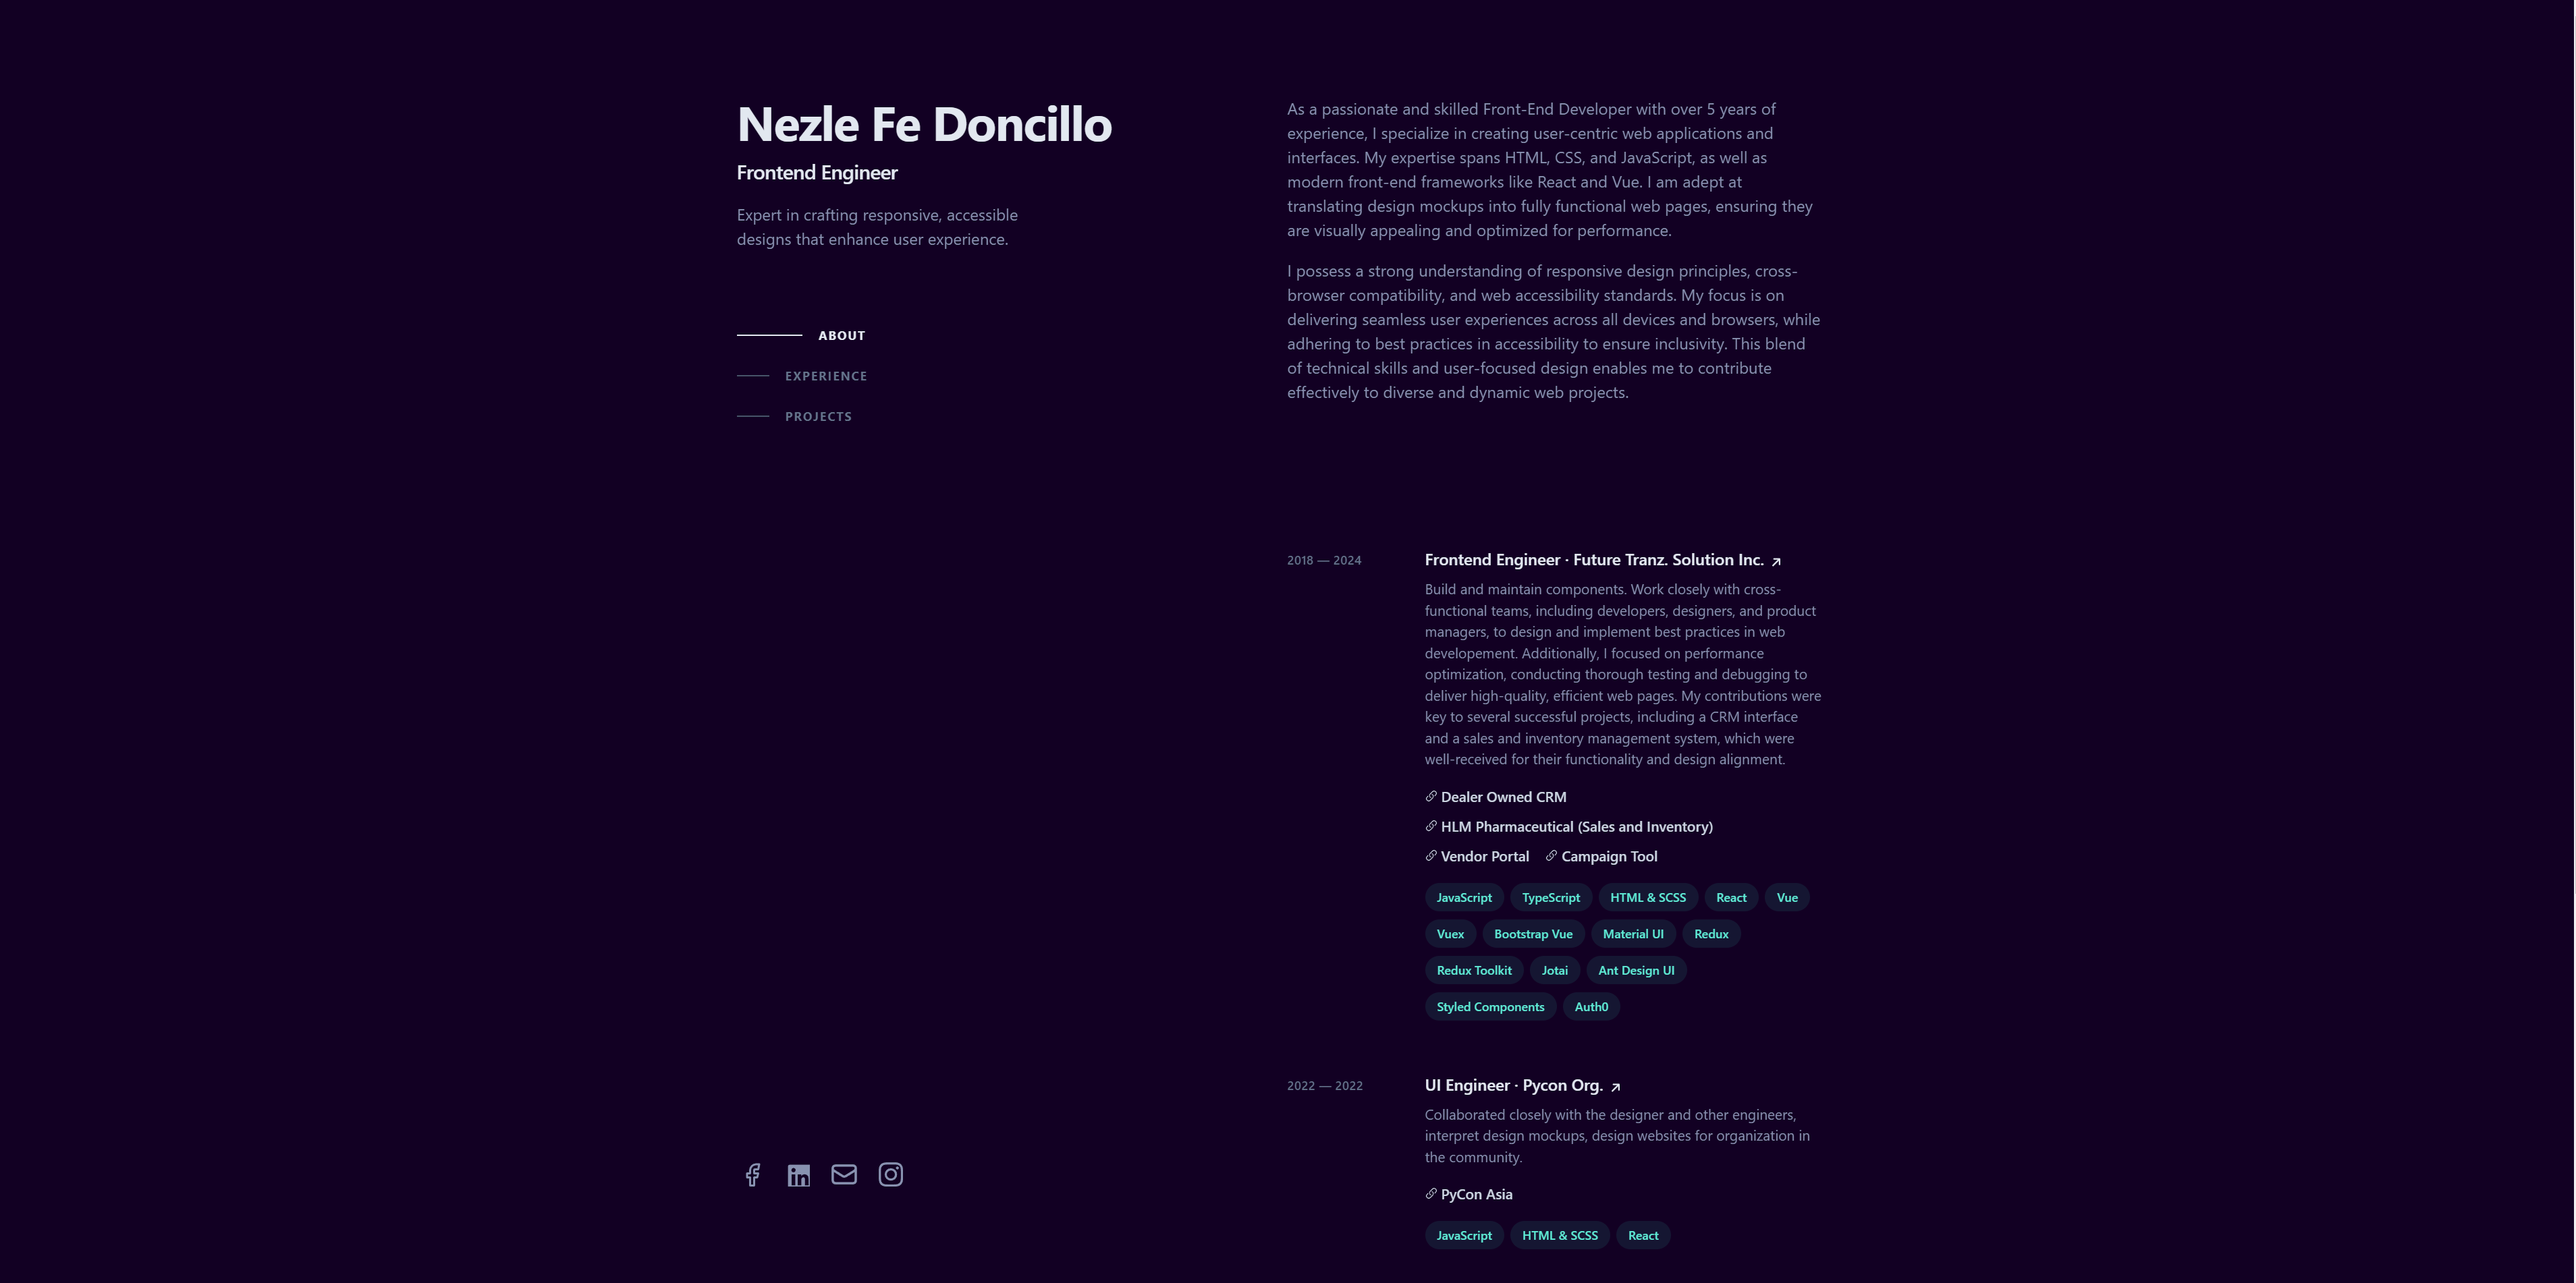
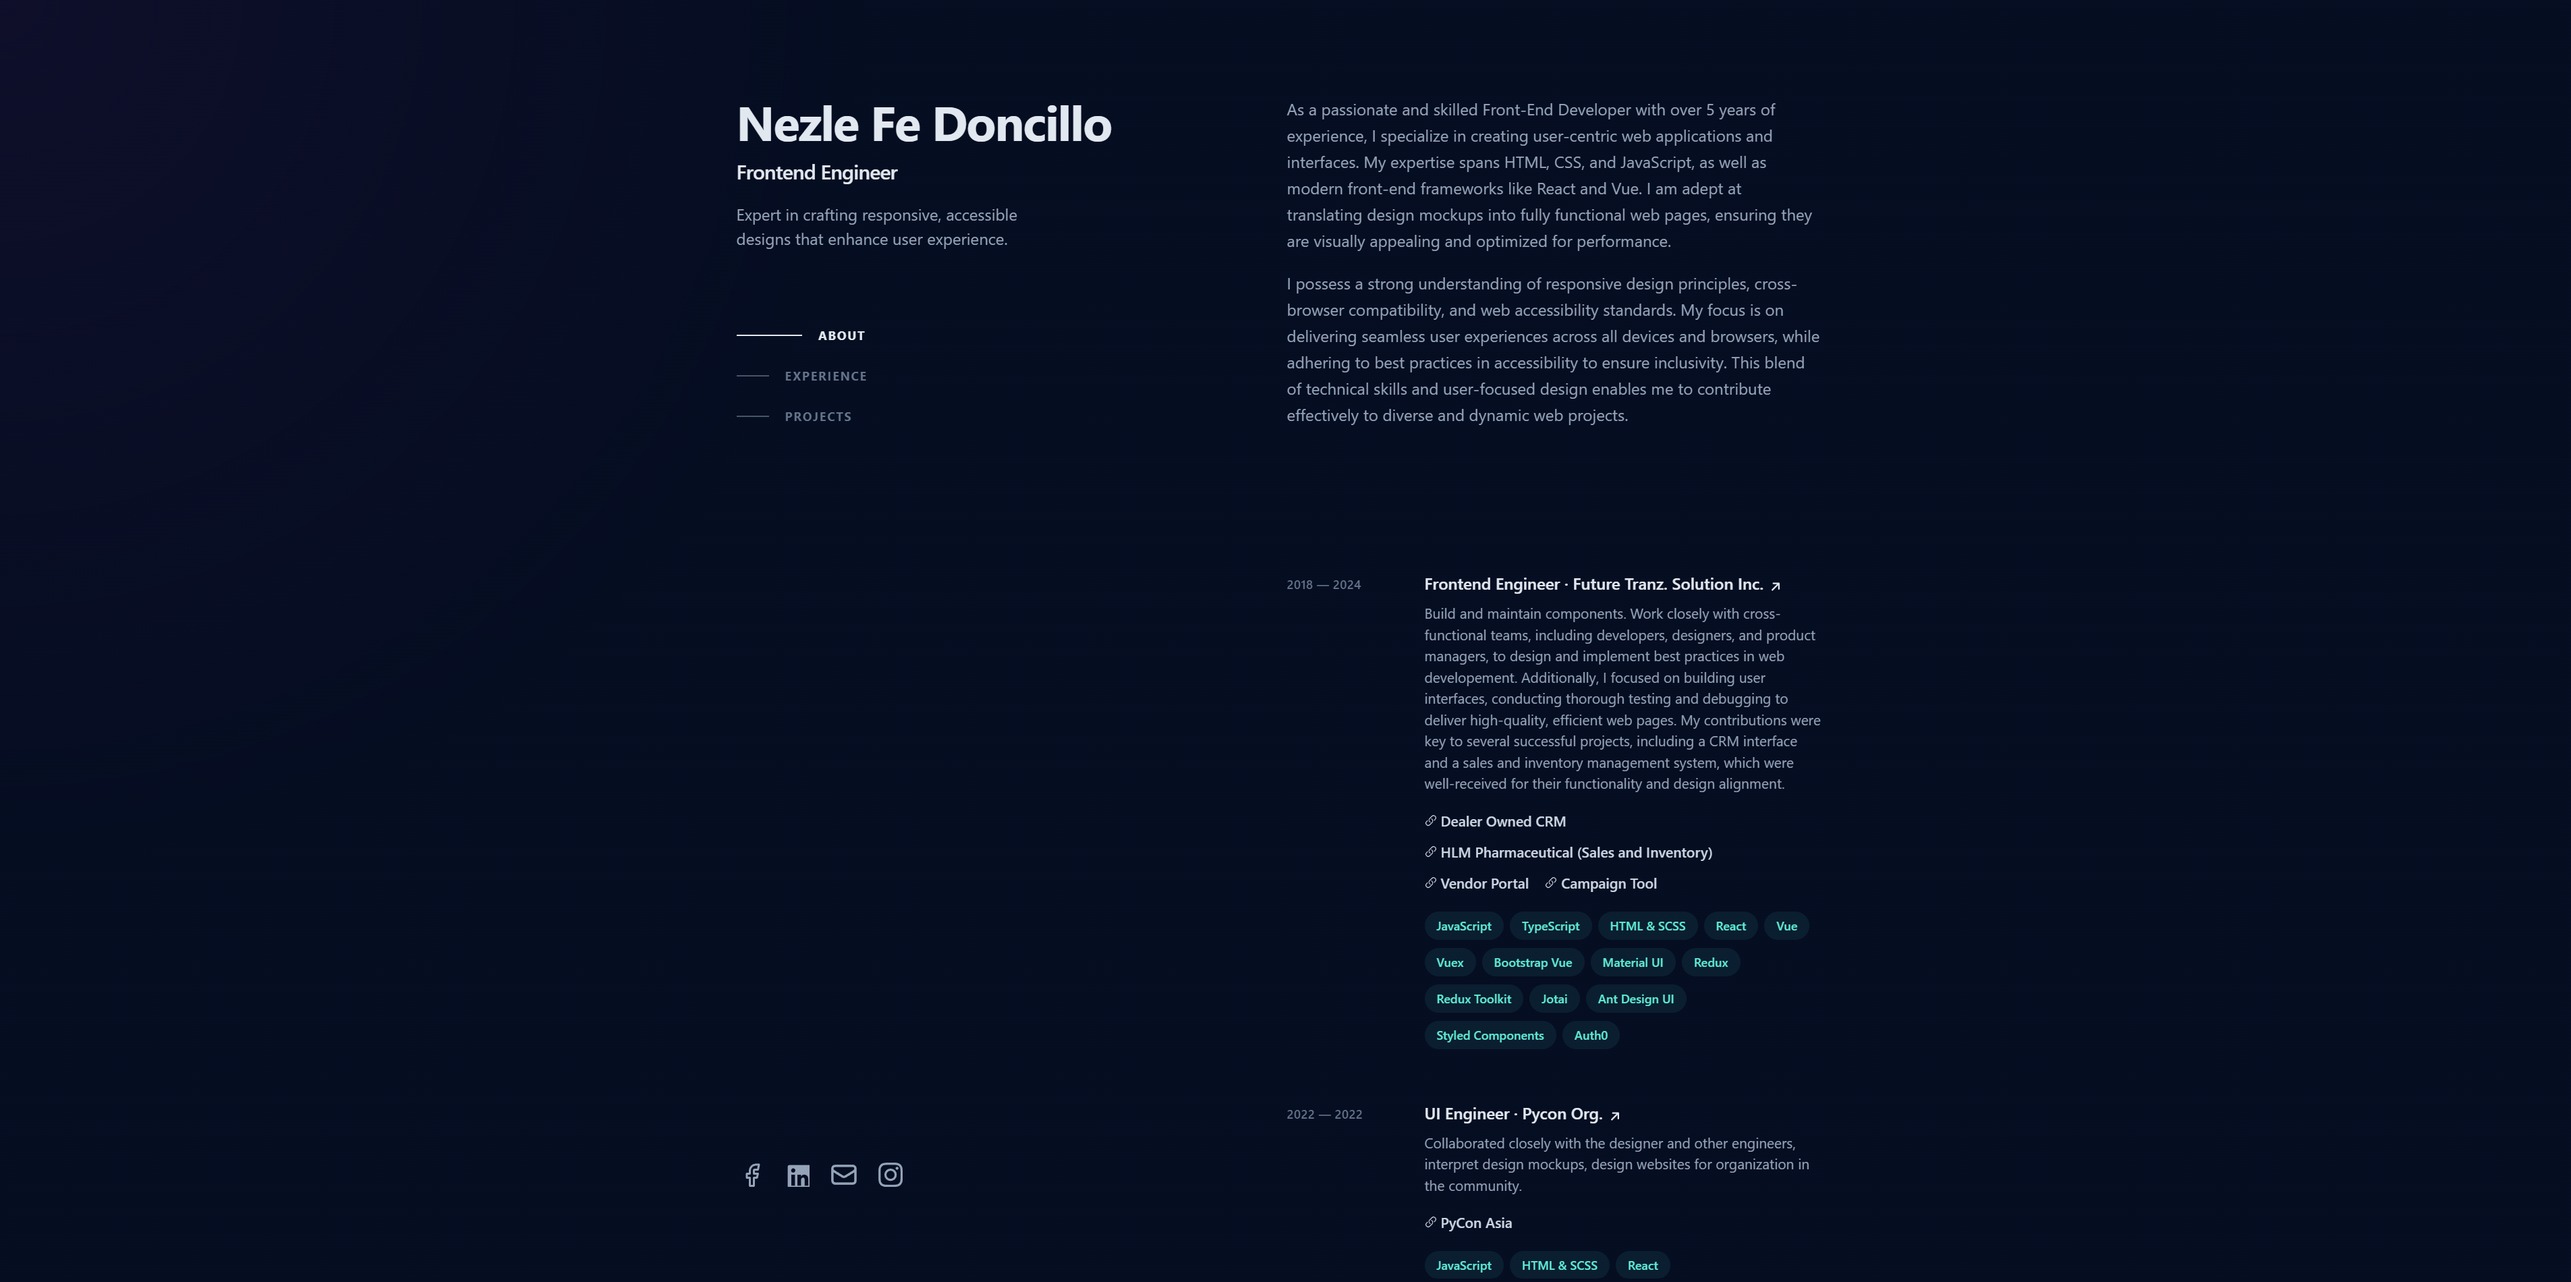
style changes

diff --git a/components/experience.tsx b/components/experience.tsx
@@ -28,7 +28,7 @@ const items: ExperienceItem[] = [
     description: `
     Build and maintain components. Work closely with cross-functional teams, including developers, designers, and
     product managers, to design and implement best practices in web developement. Additionally, I focused on 
-    performance optimization, conducting thorough testing and debugging to deliver high-quality, efficient web pages. 
+    building user interfaces, conducting thorough testing and debugging to deliver high-quality, efficient web pages. 
     My contributions were key to several successful projects, including a CRM interface and a sales and inventory 
     management system, which were well-received for their functionality and design alignment.
     `,
@@ -88,28 +88,13 @@ const items: ExperienceItem[] = [
 ];
 
 export default function Experience() {
-  const containerRef = useRef<HTMLDivElement>(null);
-  const [gradientPosition, setGradientPosition] = useState({ x: 50, y: 50, isHovered: false });
-
-  const handleMouseMove = (e: React.MouseEvent<HTMLDivElement, MouseEvent>) => {
-    if (!containerRef.current) return;
-    const rect = containerRef.current.getBoundingClientRect();
-    const x = ((e.clientX - rect.left) / rect.width) * 100;
-    const y = ((e.clientY - rect.top) / rect.height) * 100;
-    setGradientPosition({ x, y, isHovered: true });
-  };
-
-  const handleMouseLeave = () => {
-    setGradientPosition((prevState) => ({ ...prevState, isHovered: false }));
-  };
-
   return (
     <section
       id="experience"
       className="mb-16 scroll-mt-16 md:mb-24 lg:mb-36 lg:scroll-mt-24"
       aria-label="Work experience"
     >
-      <div className="sticky top-0 z-20 -mx-6 mb-4 w-screen bg-slate-900/75 px-6 py-5 backdrop-blur md:-mx-12 md:px-12 lg:sr-only lg:relative lg:top-auto lg:mx-auto lg:w-full lg:px-0 lg:py-0 lg:opacity-0">
+      <div className="sticky top-0 z-20 -mx-6 mb-4 w-screen bg-customViolet-900/75 px-6 py-5 backdrop-blur md:-mx-12 md:px-12 lg:sr-only lg:relative lg:top-auto lg:mx-auto lg:w-full lg:px-0 lg:py-0 lg:opacity-0">
         <h2 className="text-sm font-bold uppercase tracking-widest text-slate-200 lg:sr-only">
           Experience
         </h2>
@@ -119,15 +104,7 @@ export default function Experience() {
           {items.map((item, indx: number) => (
             <li key={indx} className="mb-12">
               <div className="experience-item group relative grid pb-1 transition-all sm:grid-cols-8 sm:gap-8 md:gap-4 lg:hover:!opacity-100 lg:group-hover/list:opacity-50">
-                <div 
-                  ref={containerRef}
-                  onMouseMove={handleMouseMove}
-                  onMouseLeave={handleMouseLeave}
-                  style={{
-                    background: gradientPosition.isHovered ? `radial-gradient(circle at ${gradientPosition.x}% ${gradientPosition.y}%, rgba(34,193,195,1), rgba(253,187,45,1))` : '',
-                  }} 
-                  className="absolute -inset-x-4 -inset-y-4 z-0 hidden rounded-md transition motion-reduce:transition-none lg:-inset-x-6 lg:block lg:group-hover:bg-slate-800/50 lg:group-hover:shadow-[inset_0_1px_0_0_rgba(148,163,184,0.1)] lg:group-hover:drop-shadow-lg"
-                />
+                <div className="absolute -inset-x-4 -inset-y-4 z-0 hidden rounded-md transition motion-reduce:transition-none lg:-inset-x-6 lg:block lg:group-hover:bg-slate-800/50 lg:group-hover:shadow-[inset_0_1px_0_0_rgba(148,163,184,0.1)] lg:group-hover:drop-shadow-lg" />
                 <header
                   className="z-10 mb-2 mt-1 text-xs font-semibold uppercase tracking-wide text-slate-500 sm:col-span-2"
                   aria-label="2018 to 2024"

diff --git a/components/gradientBackground.tsx b/components/gradientBackground.tsx
@@ -1,0 +1,53 @@
+'use client'
+
+import { motion } from "framer-motion";
+import { useEffect, useState } from "react";
+
+export default function GradientBackground() {
+  const [mousePosition, setMousePosition] = useState({ x: 0, y: 0 });
+	const [isClient, setIsClient] = useState(false);
+
+  useEffect(() => {
+    // Check if the component is mounted in the client-side
+    setIsClient(true);
+
+    const handleMouseMove = (e: MouseEvent) => {
+      setMousePosition({ x: e.clientX, y: e.clientY });
+    };
+
+    if (isClient) {
+      window.addEventListener('mousemove', handleMouseMove);
+    }
+
+    return () => {
+      if (isClient) {
+        window.removeEventListener('mousemove', handleMouseMove);
+      }
+    };
+  }, [isClient]);
+
+  if (!isClient) {
+    // Return null or a basic fallback until client-side rendering happens
+    return null;
+  }
+
+	const xPosPercentage = (mousePosition.x / window.innerWidth) * 100;
+  const yPosPercentage = (mousePosition.y / window.innerHeight) * 100;
+
+  const gradient = `radial-gradient(circle at ${xPosPercentage}% ${yPosPercentage}%, #9c27b014, #050d21 30%)`;
+
+  return (
+    <motion.div
+			initial={{ background: 'radial-gradient(circle, #9c27b014, #050d21 30%' }}
+			animate={{ background: gradient }}
+			transition={{ duration: 0 }}
+			className="gradient-background opacity-80"
+			style={{
+				width: '100vw',
+				height: '100vh',
+				position: 'fixed',
+				zIndex: -1
+			}}
+		/>
+  );
+};

diff --git a/app/page.tsx b/app/page.tsx
@@ -1,14 +1,13 @@
 "use client";
 
-import { useEffect, useState } from 'react';
+import { useEffect } from 'react';
 import About from '@/components/about';
 import Experience from '@/components/experience';
 import Projects from '@/components/projects';
 import Footer from '@/components/footer';
+import GradientBackground from '@/components/gradientBackground';
 
 export default function Home() {
-  const [showSplash, setShowSplash] = useState(true);
-
   useEffect(() => {
     // Scroll to the top on page load or refresh
     window.scrollTo(0, 0);
@@ -43,17 +42,10 @@ export default function Home() {
     }
   },[])
 
-  useEffect(() => {
-    const timer = setTimeout(() => {
-      setShowSplash(false);
-    }, 3000); // Duration for the splash screen
-
-    return () => clearTimeout(timer);
-  }, []);
-  
   return (
-    <div className="transition ease-in-out delay-150 relative">
-      <div className="fixed inset-0 z-30 transition duration-300 lg:absolute">
+    <>
+    <GradientBackground />
+      <div className="transition ease-in-out delay-150 relative z-[1]">
         <div className="mx-auto min-h-screen max-w-screen-xl px-6 py-12 font-sans md:px-12 md:py-20 lg:px-24 lg:py-0">
           <a
             href="#content"
@@ -212,6 +204,6 @@ export default function Home() {
           </div>
         </div>
       </div>
-    </div>
+    </>
   );
 }

diff --git a/components/about.tsx b/components/about.tsx
@@ -5,14 +5,14 @@ export default function About() {
       className="mb-16 scroll-mt-16 md:mb-24 lg:mb-36 lg:scroll-mt-24"
       aria-label="About me"
     >
-      <div className="sticky top-0 z-20 -mx-6 mb-4 w-screen bg-slate-900/75 px-6 py-5 backdrop-blur md:-mx-12 md:px-12 lg:sr-only lg:relative lg:top-auto lg:mx-auto lg:w-full lg:px-0 lg:py-0 lg:opacity-0">
+      <div className="sticky top-0 z-20 -mx-6 mb-4 w-screen bg-customViolet-900/75 px-6 py-5 backdrop-blur md:-mx-12 md:px-12 lg:sr-only lg:relative lg:top-auto lg:mx-auto lg:w-full lg:px-0 lg:py-0 lg:opacity-0">
         <h2 className="text-sm font-bold uppercase tracking-widest text-slate-200 lg:sr-only">
           About
         </h2>
       </div>
       <div>
         <p className="mb-4">
-          As a passionate and skilled Front-End Developer with over 5 years of experience, I specialize in creating user-centric web 
+          As a passionate and skilled Front-End Developer with years of experience, I specialize in creating user-centric web 
           applications and interfaces. My expertise spans HTML, CSS, and JavaScript, as well as modern front-end frameworks like React 
           and Vue. I am adept at translating design mockups into fully functional web pages, ensuring they are visually appealing and 
           optimized for performance.

diff --git a/components/projects.tsx b/components/projects.tsx
@@ -35,7 +35,7 @@ export default function Projects() {
       className="mb-16 scroll-mt-16 md:mb-24 lg:mb-36 lg:scroll-mt-24"
       aria-label="Selected projects"
     >
-      <div className="sticky top-0 z-20 -mx-6 mb-4 w-screen bg-slate-900/75 px-6 py-5 backdrop-blur md:-mx-12 md:px-12 lg:sr-only lg:relative lg:top-auto lg:mx-auto lg:w-full lg:px-0 lg:py-0 lg:opacity-0">
+      <div className="sticky top-0 z-20 -mx-6 mb-4 w-screen bg-customViolet-900/75 px-6 py-5 backdrop-blur md:-mx-12 md:px-12 lg:sr-only lg:relative lg:top-auto lg:mx-auto lg:w-full lg:px-0 lg:py-0 lg:opacity-0">
         <h2 className="text-sm font-bold uppercase tracking-widest text-slate-200 lg:sr-only">
           Projects
         </h2>

diff --git a/app/layout.tsx b/app/layout.tsx
@@ -16,7 +16,7 @@ export default function RootLayout({
 }>) {
   return (
     <html lang="en" className="scroll-smooth">
-      <body className={`${inter.className}' bg-[#120023] text-[#8892b0] h-screen font-sans'`}>{children}</body>
+      <body className={`${inter.className}' overflow-x-hidden overscroll-none bg-customViolet leading-relaxed text-slate-400 antialiased selection:bg-teal-300 selection:text-teal-900'`}>{children}</body>
     </html>
   );
 }

diff --git a/components/footer.tsx b/components/footer.tsx
@@ -4,7 +4,7 @@ export default function Footer() {
   return (
     <footer className="max-w-md pb-16 text-sm text-slate-500 sm:pb-0">
       <p className="flex items-center">
-        Coded with&nbsp;<span><HeartIcon className="h-4 w-4 text-red-900" /></span>&nbsp;by yours truly.
+        Made with&nbsp;<span><HeartIcon className="h-4 w-4 text-red-900" /></span>&nbsp;by Nezle Fe Doncillo.
       </p>
     </footer>
   );

diff --git a/app/globals.css b/app/globals.css
@@ -22,5 +22,5 @@
 }
 
 .technology-item {
-  @apply flex items-center rounded-full bg-teal-400/10 px-3 py-1 text-xs font-medium leading-5 text-teal-300
+  @apply flex items-center rounded-full bg-teal-400/10 px-3 py-1 text-xs font-medium leading-5 text-teal-300;
 }

diff --git a/tailwind.config.ts b/tailwind.config.ts
@@ -8,6 +8,9 @@ const config: Config = {
   ],
   theme: {
     extend: {
+      colors: {
+        customViolet: '#050d21'
+      },
       backgroundImage: {
         "gradient-radial": "radial-gradient(var(--tw-gradient-stops))",
         "gradient-conic":
